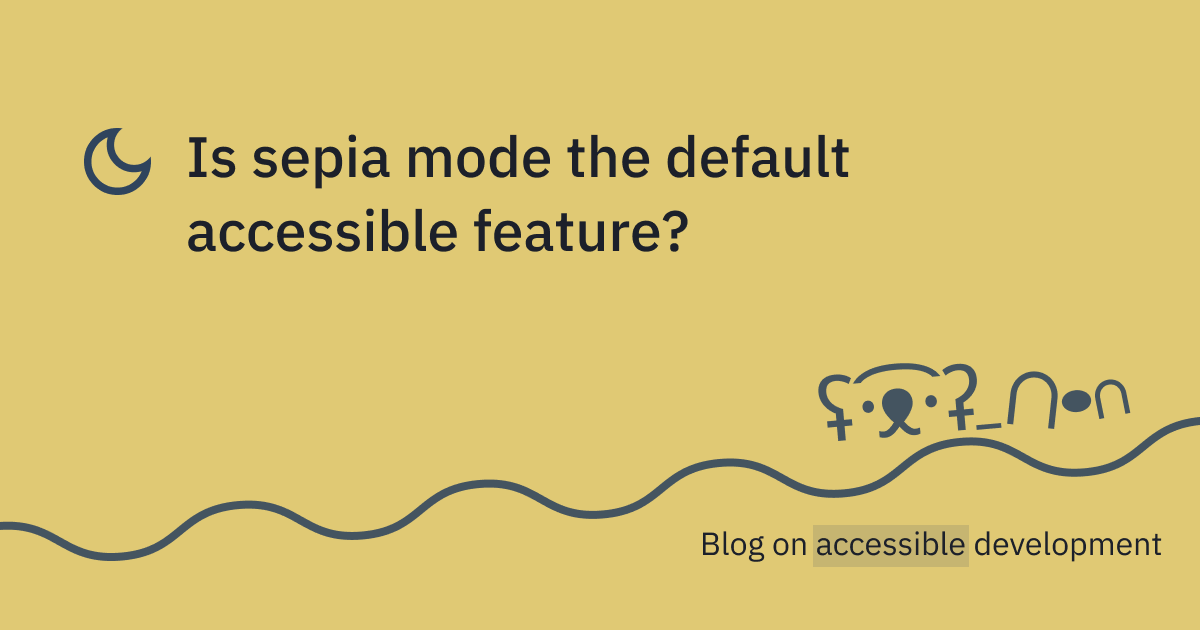
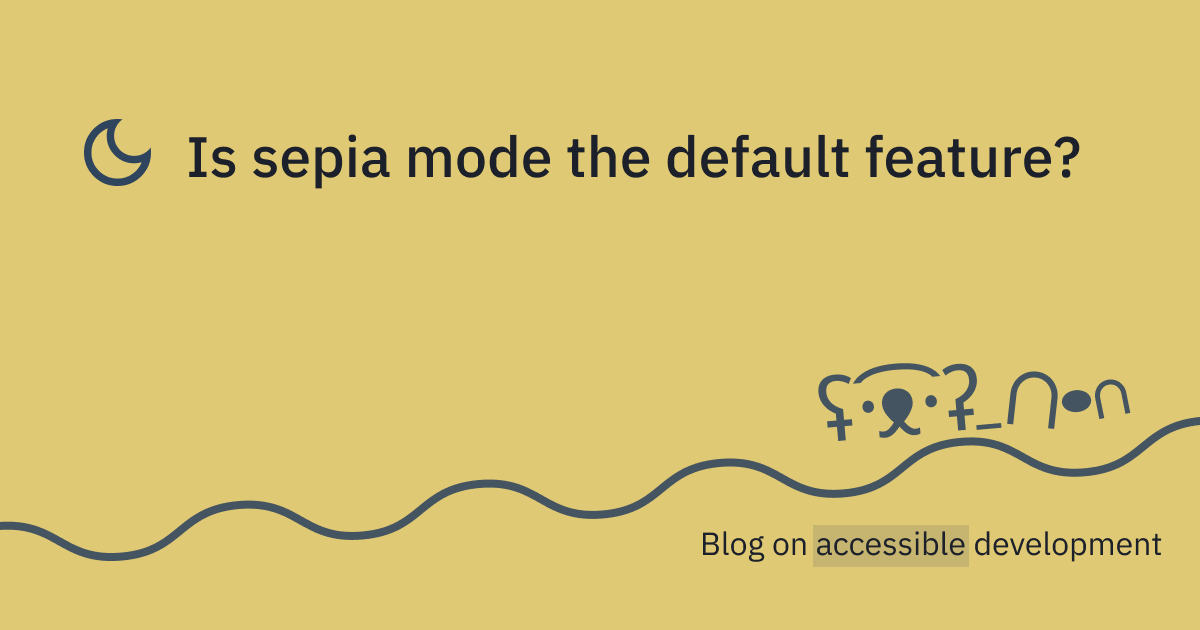
Added description, changed the title

Changed region(s): [[0.1542, 0.3317, 0.5858, 0.4222], [0.7092, 0.2111, 0.925, 0.3016], [0.0617, 0.181, 0.1233, 0.3317]]

diff --git a/src/en/articles/is-sepia-mode-essential/index.md b/src/en/articles/is-sepia-mode-essential/index.md
@@ -1,6 +1,6 @@
 ---
-title: Is sepia mode the default accessible feature?
-description: Bla bla bla.
+title: Is sepia mode the default feature?
+description: Struggling with dark mode? You're not alone! I share my experience with eyestrain and halation, dive into the world of astigmatism, and question why dark themes are everywhere despite not working for everyone.
 ogImage: cover.png
 keyTheme:
   - Design
@@ -13,7 +13,7 @@ I like Pocket. Actually, no: I LOVE Pocket. It helps me keep many articles and p
 
 If you're unfamiliar with Pocket, it's a service for storing web bookmarks in a less chaotic way, unlike collecting hundreds of tabs in your browser.
 
-Another reason to appreciate Pocket is its consistent reading experience. I deal with only one font type, size, column width, and color theme. There are no distracting animations or unpredictable readability issues caused by creative designers' choices (that's not something bad). With a Premium account, you can customize everything without compromising readability.
+Another reason to appreciate Pocket is its consistent reading experience. I deal with only one font type, size, column width, and color theme. There are no distracting animations or unpredictable readability issues caused by creative designers' choices (that's not something bad.) With a Premium account, you can customize everything without compromising readability.
 
 I also enjoy using the Pocket app. It has an offline mode; you just need to synchronize your data beforehand.
 
